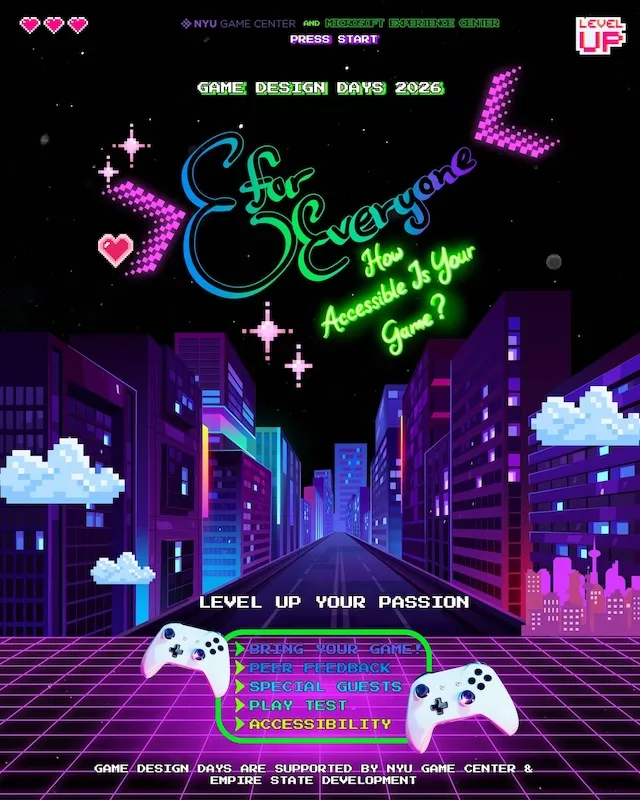
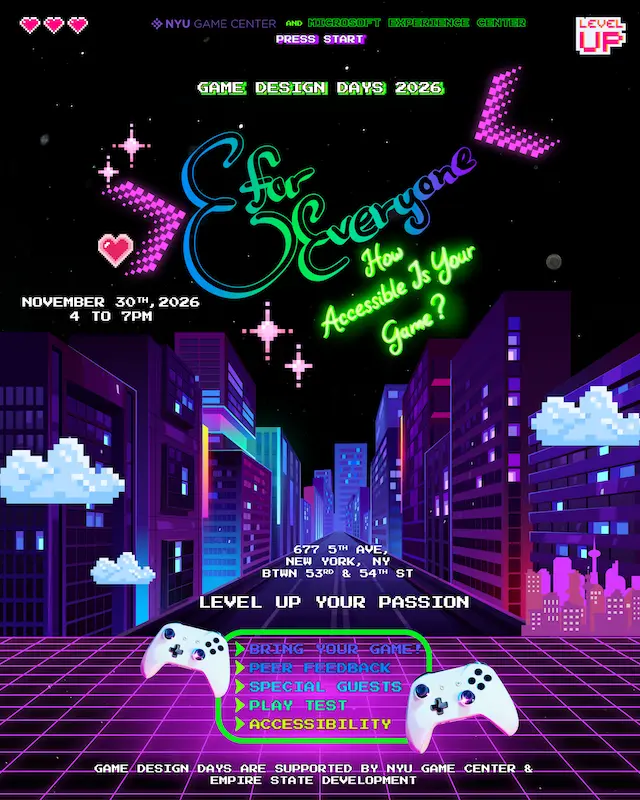
update GDD poster, update Microsoft poster, add map, update Women in Games event description, pull unused img assets, convert remaining pngs to webp

diff --git a/index.html b/index.html
@@ -24,19 +24,19 @@
       <div class="between-layer">
         <div class="parallax-section">
           <div class="spacer"></div>
-          <img src="./static/img/incidentals/GDD26_Controller.png"/>
+          <img src="./static/img/elements/GDD26_Controller.webp"/>
         </div>
         <div class="parallax-section">
           <div class="spacer"></div>
-          <img src="./static/img/incidentals/GDD26_Cutting_Board_and_XActo_People.png"/>
+          <img src="./static/img/elements/GDD26_Cutting_Board_and_XActo_People.webp"/>
         </div>
         <div class="parallax-section">
           <div class="spacer"></div>
-          <img src="./static/img/incidentals/GDD26_Notecards.png">
+          <img src="./static/img/elements/GDD26_Notecards.webp">
         </div>
         <div class="parallax-section">
           <div class="spacer"></div>
-          <img src="./static/img/incidentals/GDD26_Pencil.png"/>
+          <img src="./static/img/elements/GDD26_Pencil.webp"/>
         </div>
       </div>
       <div class="top-layer">
@@ -137,13 +137,13 @@
           </section>
           <section class="map">
             <div class="section-inner">
-              <!-- <h2>Map</h2> -->
-              <div class="content-box" style="margin-top: 0;"">
-                <!-- <div class="img-holder">
-                  <a href="">
-                    <img src="" alt="map">
+              <h2>Map</h2>
+              <div class="content-box">
+                <div class="img-holder" style="margin-bottom: 2rem;">
+                  <a href="./static/img/events/map.webp">
+                    <img src="./static/img/events/map.webp" alt="map">
                   </a>
-                </div> -->
+                </div>
                 <p>
                   For press release and inquiry write to <a href="mailto:gamecenter@nyu.edu">gamecenter@nyu.edu</a>
                 </p>
@@ -230,15 +230,19 @@
             <p>
               NYU Game Design Days, Women in Games NYC (WIGNYC), GUMBO Collective and The German American Chamber of Commerce, Inc (GACC NEW YORK) are joining forces to bring a hands-on wearable tech workshop combined with an evening full of New York-made Indie Games.<br>
               <br>
-              Join us for a wearable tech workshop, presentations by game developers, and networking and dinner. Special appearances from GUMBO Board members and representatives of the GACC NY!<br>
+              Agenda:<br>
               <br>
-              Presentations by:<br>
-              Ben Elliot<br>
-              George Li<br>
-              Krystel Theuvenin<br>
-              Michael Kamm<br>
-              Sam Eng<br>
-              Josh Debonis<br>
+              6 pm - 7:30 pm: Wearable tech workshop (optional+open to WIGNYC community)<br>
+              <br>
+              7:30 pm - 8:30 pm: Presentations by Game Developers<br>
+              <br>
+              8:30 pm - 9:30 pm: Networking and Dinner<br>
+              <br>
+              We'll invite the GUMBO Board members and representatives of the GACC NY to say a few words before presentations begin.<br>
+              <br>
+              Presentations by Ben Elliot, George Li, Krystel Theuvenin, Michael Kamm, Sam Eng, Josh Debonis and more!<br>
+              <br>
+              The final part of the evening will be open for everyone to grab a bite and chat.<br>
               <br>
               15 Wearable Tech Workshop slots open. WIGNYC Community and allies encouraged.
             </p>
